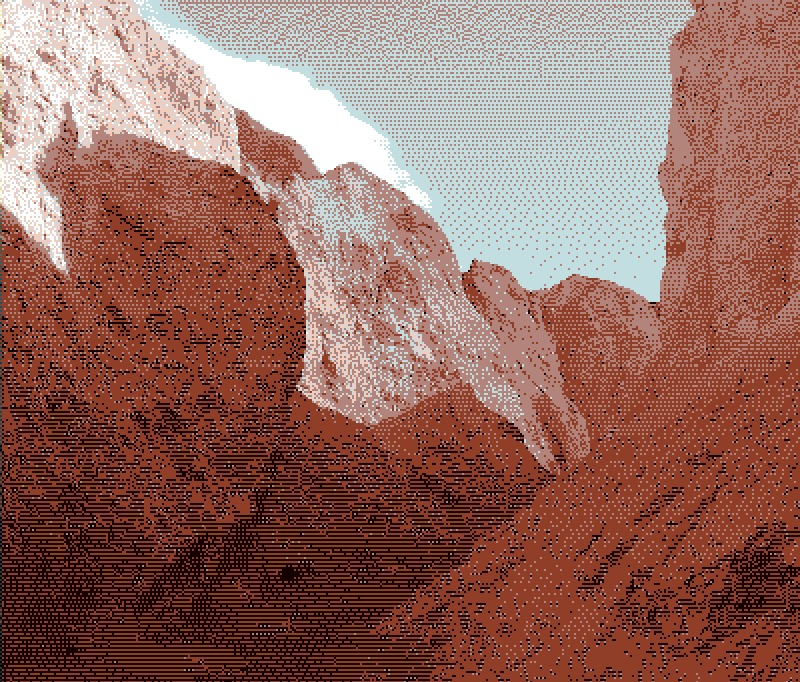
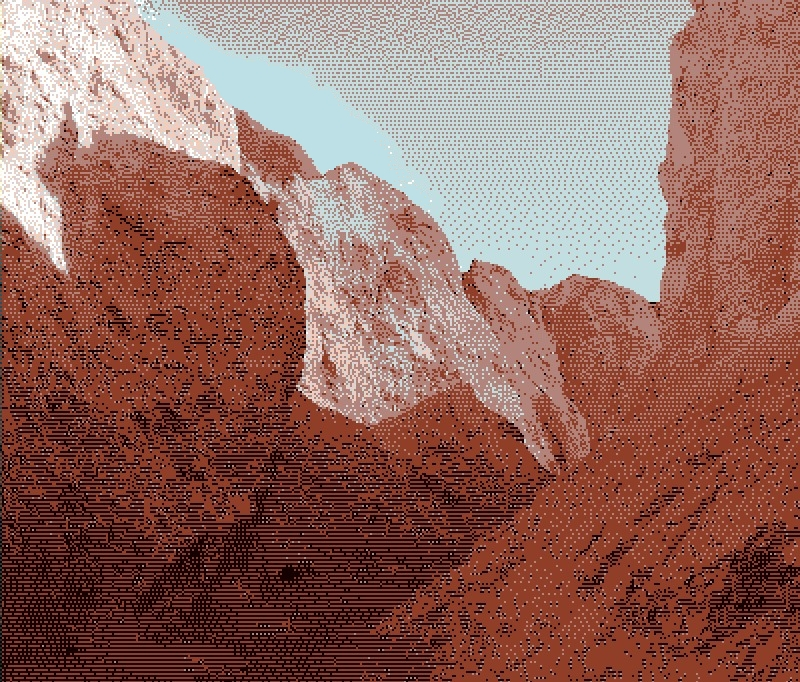
encounter script change

Changed region(s): [[0.1875, 0.0, 0.5625, 0.3079]]

diff --git a/Assets/Scripts/Encounter.cs b/Assets/Scripts/Encounter.cs
@@ -1,0 +1,29 @@
+using UnityEngine;
+using UnityEngine.EventSystems;
+
+public class Encounter3 : MonoBehaviour
+{
+    int moveCounter = 0;
+    public Vector3 direction;
+    public int moveTotal;
+    public float moveTimeIncrement;
+
+    private void Start()
+    {
+        move();
+    }
+
+    private void move ()
+    {
+        AudioManager.instance.PlayMonsterRoar();
+        moveCounter++;
+        if (moveCounter > moveTotal)
+        {
+            Destroy(this.gameObject);
+        }
+            
+        transform.position += direction * 0.48f;
+
+        Invoke("move", moveTimeIncrement);
+    }
+}

diff --git a/Assets/Scripts/Destroy.cs b/Assets/Scripts/Destroy.cs
@@ -24,7 +24,8 @@ public class Destroy : MonoBehaviour
     {
         if (overlap)
         {
-            Instantiate(monster);
+            Instantiate(monster, this.transform);
+            transform.DetachChildren();
             Instantiate(text);
             this.gameObject.SetActive(false);
         }
